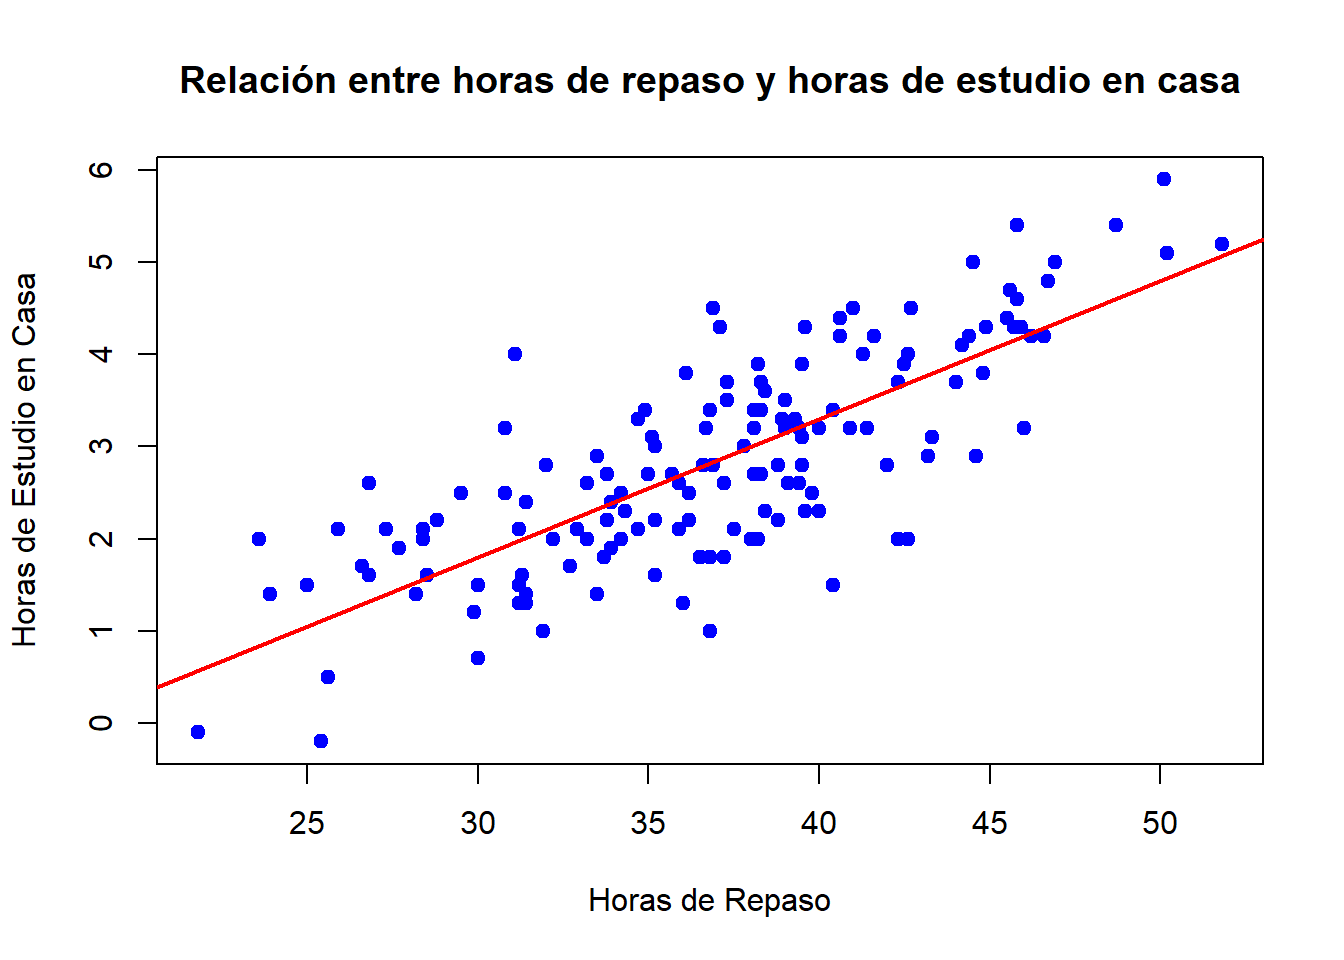
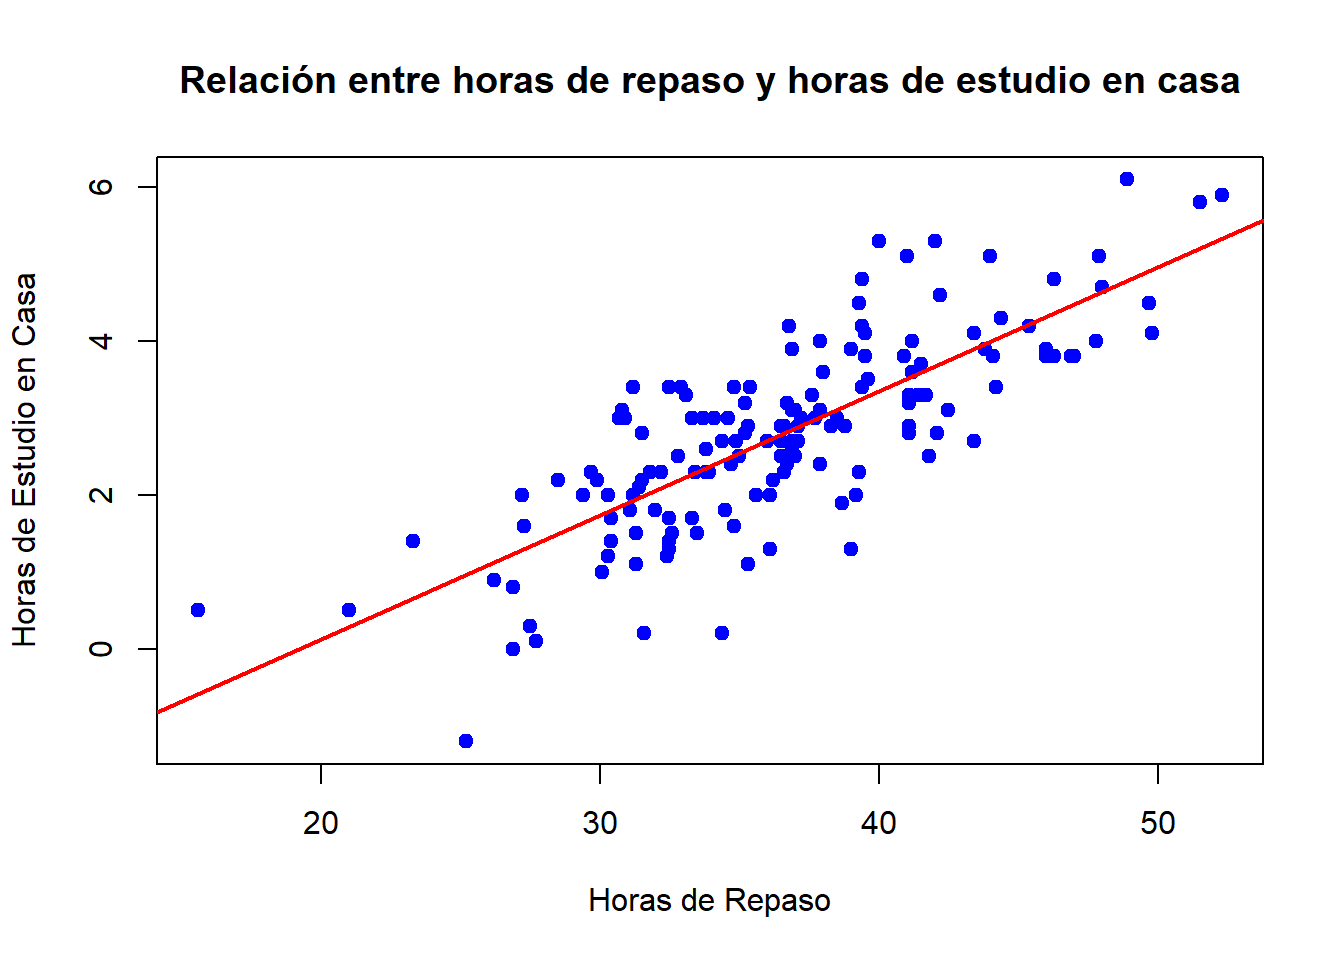
final

diff --git a/Enunciado.html b/Enunciado.html
@@ -219,19 +219,19 @@ window.Quarto = {
 <span id="cb2-27"><a href="#cb2-27" aria-hidden="true" tabindex="-1"></a><span class="fu">head</span>(rendimiento_estudiantil)</span></code><button title="Copy to Clipboard" class="code-copy-button"><i class="bi"></i></button></pre></div>
 <div class="cell-output cell-output-stdout">
 <pre><code>  Sexo Curso Horas_repaso_años Estudio_semanal Notas_antes Notas_despues
-1    M  2BAT              42.5             3.9           5           7.4
-2    M  1BAT              29.9             1.2           1           2.6
-3    M  2BAT              40.4             1.5           3           4.0
-4    M  1BAT              39.1             2.6           5           7.4
-5    F  2BAT              34.2             2.5           3           4.5
-6    M  2BAT              42.6             2.0           4           5.5
+1    F  2BAT              51.5             5.8           6           6.8
+2    F  2BAT              30.4             1.4           2           3.6
+3    F  1BAT              37.7             3.0           2           4.4
+4    M  2BAT              31.5             2.8           4           4.9
+5    M  2BAT              36.9             2.7           2           5.2
+6    F  1BAT              46.9             3.8           4           7.3
   Ayuda_repaso Motivación Amppliar_conocimiento
-1         Nada         Si                    No
-2         Poco         Si                    Si
-3        Mucho         No                    Si
-4         Nada         Si                    Si
-5        Mucho         No                    No
-6        Mucho         No                    Si</code></pre>
+1         Nada         No                    Si
+2         Nada         No                    No
+3         Nada         Si                    No
+4         Poco         Si                    Si
+5         Poco         Si                    No
+6         Poco         No                    No</code></pre>
 </div>
 </div>
 <p>Para los datos de internet, los he obtenido del link que lleva a la página del ministerio, concretamente, son datos sobre: “Gasto total de los hogares en servicios educativos y gasto medio por hogar según tipo de servicio y tamaño del municipio de residencia”.</p>
@@ -259,7 +259,7 @@ window.Quarto = {
 <span id="cb5-6"><a href="#cb5-6" aria-hidden="true" tabindex="-1"></a>     <span class="at">pch =</span> <span class="dv">19</span>, <span class="at">col =</span> <span class="st">"blue"</span>)</span>
 <span id="cb5-7"><a href="#cb5-7" aria-hidden="true" tabindex="-1"></a>modelo_lineal <span class="ot">&lt;-</span> <span class="fu">lm</span>(Estudio_semanal <span class="sc">~</span> Horas_repaso_años, <span class="at">data =</span> df_preg1)</span>
 <span id="cb5-8"><a href="#cb5-8" aria-hidden="true" tabindex="-1"></a></span>
-<span id="cb5-9"><a href="#cb5-9" aria-hidden="true" tabindex="-1"></a><span class="co"># 3. Agregar la línea de regresión al gráfico</span></span>
+<span id="cb5-9"><a href="#cb5-9" aria-hidden="true" tabindex="-1"></a><span class="co">#añadir regresion</span></span>
 <span id="cb5-10"><a href="#cb5-10" aria-hidden="true" tabindex="-1"></a><span class="fu">abline</span>(modelo_lineal, <span class="at">col =</span> <span class="st">"red"</span>, <span class="at">lwd =</span> <span class="dv">2</span>)</span></code><button title="Copy to Clipboard" class="code-copy-button"><i class="bi"></i></button></pre></div>
 <div class="cell-output-display">
 <div>
@@ -274,13 +274,13 @@ window.Quarto = {
     Pearson's product-moment correlation
 
 data:  df_preg1$Horas_repaso_años and df_preg1$Estudio_semanal
-t = 15.242, df = 148, p-value &lt; 2.2e-16
+t = 15.315, df = 148, p-value &lt; 2.2e-16
 alternative hypothesis: true correlation is not equal to 0
 95 percent confidence interval:
- 0.7102877 0.8370015
+ 0.7121268 0.8381124
 sample estimates:
       cor 
-0.7815805 </code></pre>
+0.7830245 </code></pre>
 </div>
 </div>
 <p>Concluimos que, efectivamente, las horas de repaso incentivan a los alumnos a estudiar en sus casas.</p>
@@ -293,7 +293,7 @@ sample estimates:
 <span id="cb8-3"><a href="#cb8-3" aria-hidden="true" tabindex="-1"></a>        <span class="at">main =</span> <span class="st">"Estudio_semanal según Motivación"</span>,</span>
 <span id="cb8-4"><a href="#cb8-4" aria-hidden="true" tabindex="-1"></a>        <span class="at">xlab =</span> <span class="st">"Motivación"</span>,</span>
 <span id="cb8-5"><a href="#cb8-5" aria-hidden="true" tabindex="-1"></a>        <span class="at">ylab =</span> <span class="st">"Estudio Semanal"</span>,</span>
-<span id="cb8-6"><a href="#cb8-6" aria-hidden="true" tabindex="-1"></a>        <span class="at">col =</span> <span class="fu">c</span>(<span class="st">"lightblue"</span>, <span class="st">"lightgreen"</span>))</span></code><button title="Copy to Clipboard" class="code-copy-button"><i class="bi"></i></button></pre></div>
+<span id="cb8-6"><a href="#cb8-6" aria-hidden="true" tabindex="-1"></a>        <span class="at">col =</span> <span class="fu">c</span>(<span class="st">"blue"</span>, <span class="st">"green"</span>))</span></code><button title="Copy to Clipboard" class="code-copy-button"><i class="bi"></i></button></pre></div>
 <div class="cell-output-display">
 <div>
 <figure class="figure">
@@ -335,13 +335,13 @@ sample estimates:
     Pearson's product-moment correlation
 
 data:  df_preg3$Horas_repaso_años and df_preg3$Mejora
-t = 0.97865, df = 148, p-value = 0.3294
+t = 1.2934, df = 148, p-value = 0.1979
 alternative hypothesis: true correlation is not equal to 0
 95 percent confidence interval:
- -0.08111873  0.23739606
+ -0.05548075  0.26155087
 sample estimates:
-       cor 
-0.08018522 </code></pre>
+      cor 
+0.1057208 </code></pre>
 </div>
 </div>
 <p>Efectivamente, la correlación es positiva y la pendiente de la recta de regresión también pero debemos de ser cautos a la hora de decir que si son elementos correlacionados ya que no es una correlación muy muy notoria.</p>
@@ -362,25 +362,24 @@ sample estimates:
 <div class="cell-output cell-output-stdout">
 <pre><code>
 Mucho  Nada  Poco 
-   58    52    40 </code></pre>
+   46    47    57 </code></pre>
 </div>
 <div class="sourceCode cell-code" id="cb15"><pre class="sourceCode r code-with-copy"><code class="sourceCode r"><span id="cb15-1"><a href="#cb15-1" aria-hidden="true" tabindex="-1"></a><span class="fu">print</span>(probs)</span></code><button title="Copy to Clipboard" class="code-copy-button"><i class="bi"></i></button></pre></div>
 <div class="cell-output cell-output-stdout">
 <pre><code>
     Mucho      Nada      Poco 
-0.3866667 0.3466667 0.2666667 </code></pre>
+0.3066667 0.3133333 0.3800000 </code></pre>
 </div>
 </div>
 <p>Los parametros en una distribución multinomial son las probabilidades anteriores. Por tanto, los estimadores son 0.3267, 0.3467, 0.3266.</p>
 <div class="cell">
-<div class="sourceCode cell-code" id="cb17"><pre class="sourceCode r code-with-copy"><code class="sourceCode r"><span id="cb17-1"><a href="#cb17-1" aria-hidden="true" tabindex="-1"></a><span class="co"># Definir el vector con el conteo de estudiantes en cada categoría</span></span>
-<span id="cb17-2"><a href="#cb17-2" aria-hidden="true" tabindex="-1"></a>evento_interes <span class="ot">&lt;-</span> <span class="fu">c</span>(<span class="at">Mucho =</span> <span class="dv">7</span>, <span class="at">Nada =</span> <span class="dv">7</span>, <span class="at">Poco =</span> <span class="dv">6</span>)</span>
+<div class="sourceCode cell-code" id="cb17"><pre class="sourceCode r code-with-copy"><code class="sourceCode r"><span id="cb17-1"><a href="#cb17-1" aria-hidden="true" tabindex="-1"></a>subgrupo <span class="ot">&lt;-</span> <span class="fu">c</span>(<span class="at">Mucho =</span> <span class="dv">7</span>, <span class="at">Nada =</span> <span class="dv">7</span>, <span class="at">Poco =</span> <span class="dv">6</span>)</span>
+<span id="cb17-2"><a href="#cb17-2" aria-hidden="true" tabindex="-1"></a></span>
 <span id="cb17-3"><a href="#cb17-3" aria-hidden="true" tabindex="-1"></a></span>
-<span id="cb17-4"><a href="#cb17-4" aria-hidden="true" tabindex="-1"></a><span class="co"># Calcular la probabilidad del evento de interés en una muestra de tamaño 20</span></span>
-<span id="cb17-5"><a href="#cb17-5" aria-hidden="true" tabindex="-1"></a>probabilidad_evento <span class="ot">&lt;-</span> <span class="fu">dmultinom</span>(evento_interes, <span class="at">size =</span> <span class="dv">20</span>, <span class="at">prob =</span> probs)</span>
-<span id="cb17-6"><a href="#cb17-6" aria-hidden="true" tabindex="-1"></a><span class="fu">print</span>(probabilidad_evento)</span></code><button title="Copy to Clipboard" class="code-copy-button"><i class="bi"></i></button></pre></div>
+<span id="cb17-4"><a href="#cb17-4" aria-hidden="true" tabindex="-1"></a>probabilidad <span class="ot">&lt;-</span> <span class="fu">dmultinom</span>(subgrupo, <span class="at">size =</span> <span class="dv">20</span>, <span class="at">prob =</span> probs)</span>
+<span id="cb17-5"><a href="#cb17-5" aria-hidden="true" tabindex="-1"></a><span class="fu">print</span>(probabilidad)</span></code><button title="Copy to Clipboard" class="code-copy-button"><i class="bi"></i></button></pre></div>
 <div class="cell-output cell-output-stdout">
-<pre><code>[1] 0.03719505</code></pre>
+<pre><code>[1] 0.03029318</code></pre>
 </div>
 </div>
 <p>La probabilidad es muy baja, es decir, no podemos afirmar la hipótesis del enunciado.</p>
@@ -396,7 +395,7 @@ Mucho  Nada  Poco
 <div class="cell">
 <div class="sourceCode cell-code" id="cb19"><pre class="sourceCode r code-with-copy"><code class="sourceCode r"><span id="cb19-1"><a href="#cb19-1" aria-hidden="true" tabindex="-1"></a>modelo <span class="ot">&lt;-</span> <span class="fu">lm</span>(rendimiento_estudiantil<span class="sc">$</span>Notas_despues <span class="sc">~</span> rendimiento_estudiantil<span class="sc">$</span>Notas_antes <span class="sc">+</span> rendimiento_estudiantil<span class="sc">$</span>Horas_repaso_años <span class="sc">+</span> rendimiento_estudiantil<span class="sc">$</span>Estudio_semanal, <span class="at">data =</span> rendimiento_estudiantil)</span>
 <span id="cb19-2"><a href="#cb19-2" aria-hidden="true" tabindex="-1"></a></span>
-<span id="cb19-3"><a href="#cb19-3" aria-hidden="true" tabindex="-1"></a><span class="co"># Paso 2: Ver el resumen del modelo para obtener los coeficientes y su significancia</span></span>
+<span id="cb19-3"><a href="#cb19-3" aria-hidden="true" tabindex="-1"></a></span>
 <span id="cb19-4"><a href="#cb19-4" aria-hidden="true" tabindex="-1"></a><span class="fu">summary</span>(modelo)</span></code><button title="Copy to Clipboard" class="code-copy-button"><i class="bi"></i></button></pre></div>
 <div class="cell-output cell-output-stdout">
 <pre><code>
@@ -407,38 +406,38 @@ lm(formula = rendimiento_estudiantil$Notas_despues ~ rendimiento_estudiantil$Not
 
 Residuals:
      Min       1Q   Median       3Q      Max 
--2.60917 -0.57305 -0.00384  0.63291  2.18471 
+-2.26818 -0.62786  0.01723  0.57547  2.42364 
 
 Coefficients:
                                           Estimate Std. Error t value Pr(&gt;|t|)
-(Intercept)                                2.15711    0.58971   3.658 0.000354
-rendimiento_estudiantil$Notas_antes        0.58901    0.07745   7.605  3.2e-12
-rendimiento_estudiantil$Horas_repaso_años  0.02853    0.02086   1.368 0.173431
-rendimiento_estudiantil$Estudio_semanal    0.09664    0.11154   0.866 0.387685
+(Intercept)                                1.85227    0.54201   3.417 0.000819
+rendimiento_estudiantil$Notas_antes        0.53056    0.07117   7.454 7.35e-12
+rendimiento_estudiantil$Horas_repaso_años  0.04389    0.02039   2.153 0.032988
+rendimiento_estudiantil$Estudio_semanal    0.11929    0.09526   1.252 0.212492
                                              
 (Intercept)                               ***
 rendimiento_estudiantil$Notas_antes       ***
-rendimiento_estudiantil$Horas_repaso_años    
+rendimiento_estudiantil$Horas_repaso_años *  
 rendimiento_estudiantil$Estudio_semanal      
 ---
 Signif. codes:  0 '***' 0.001 '**' 0.01 '*' 0.05 '.' 0.1 ' ' 1
 
-Residual standard error: 0.9609 on 146 degrees of freedom
-Multiple R-squared:  0.4256,    Adjusted R-squared:  0.4138 
-F-statistic: 36.06 on 3 and 146 DF,  p-value: &lt; 2.2e-16</code></pre>
+Residual standard error: 0.9119 on 146 degrees of freedom
+Multiple R-squared:  0.5018,    Adjusted R-squared:  0.4916 
+F-statistic: 49.02 on 3 and 146 DF,  p-value: &lt; 2.2e-16</code></pre>
 </div>
 <div class="sourceCode cell-code" id="cb21"><pre class="sourceCode r code-with-copy"><code class="sourceCode r"><span id="cb21-1"><a href="#cb21-1" aria-hidden="true" tabindex="-1"></a>predicciones <span class="ot">&lt;-</span> <span class="fu">predict</span>(modelo, rendimiento_estudiantil)</span>
 <span id="cb21-2"><a href="#cb21-2" aria-hidden="true" tabindex="-1"></a>ECM <span class="ot">&lt;-</span> <span class="fu">mean</span>((rendimiento_estudiantil<span class="sc">$</span>Notas_despues <span class="sc">-</span> predicciones)<span class="sc">^</span><span class="dv">2</span>) <span class="co">#Error cuadratico medio</span></span>
 <span id="cb21-3"><a href="#cb21-3" aria-hidden="true" tabindex="-1"></a><span class="fu">print</span>(<span class="fu">paste</span>(<span class="st">"Error Cuadrático Medio:"</span>, ECM))</span></code><button title="Copy to Clipboard" class="code-copy-button"><i class="bi"></i></button></pre></div>
 <div class="cell-output cell-output-stdout">
-<pre><code>[1] "Error Cuadrático Medio: 0.898671536670346"</code></pre>
+<pre><code>[1] "Error Cuadrático Medio: 0.809389079538292"</code></pre>
 </div>
 </div>
 <p>Antes de interpretar el ECM, debemos calcular la varianza y ver si el error cuadrático medio es mucho menor que esta</p>
 <div class="cell">
 <div class="sourceCode cell-code" id="cb23"><pre class="sourceCode r code-with-copy"><code class="sourceCode r"><span id="cb23-1"><a href="#cb23-1" aria-hidden="true" tabindex="-1"></a><span class="dv">149</span><span class="sc">/</span><span class="dv">150</span><span class="sc">*</span><span class="fu">var</span>(rendimiento_estudiantil<span class="sc">$</span>Notas_despues)</span></code><button title="Copy to Clipboard" class="code-copy-button"><i class="bi"></i></button></pre></div>
 <div class="cell-output cell-output-stdout">
-<pre><code>[1] 1.564633</code></pre>
+<pre><code>[1] 1.624667</code></pre>
 </div>
 </div>
 <p>En este caso, el ECM es casi la mitad de la varianza, por tanto es demasiado alto, esto nos dice que puede haber errores en nuestra predicción.</p>
@@ -465,10 +464,10 @@ F-statistic: 36.06 on 3 and 146 DF,  p-value: &lt; 2.2e-16</code></pre>
 <span id="cb27-4"><a href="#cb27-4" aria-hidden="true" tabindex="-1"></a></span>
 <span id="cb27-5"><a href="#cb27-5" aria-hidden="true" tabindex="-1"></a><span class="fu">print</span>(<span class="fu">hotelling.test</span>(grupo_NO, grupo_SI))</span></code><button title="Copy to Clipboard" class="code-copy-button"><i class="bi"></i></button></pre></div>
 <div class="cell-output cell-output-stdout">
-<pre><code>Test stat:  0.14492 
+<pre><code>Test stat:  0.47158 
 Numerator df:  1 
 Denominator df:  148 
-P-value:  0.704 </code></pre>
+P-value:  0.4933 </code></pre>
 </div>
 </div>
 <p>Notamos que, segun el p-valor que hemos obtenido, aceptamos la hipótesis nula, es decir, la media de las calificaciones de los alumnos que creen que han ampliado su conocimiento es igual a las de los que creen que no. Tendemos a pensar que ampliar conocimientos en una asignatura es directamente proporcional a sacar buenas calificaciones en esta. En este caso se muestra como la gente puede pensar que no se amplian sus conocimientos pero si sacan mejores calificaciones.</p>
